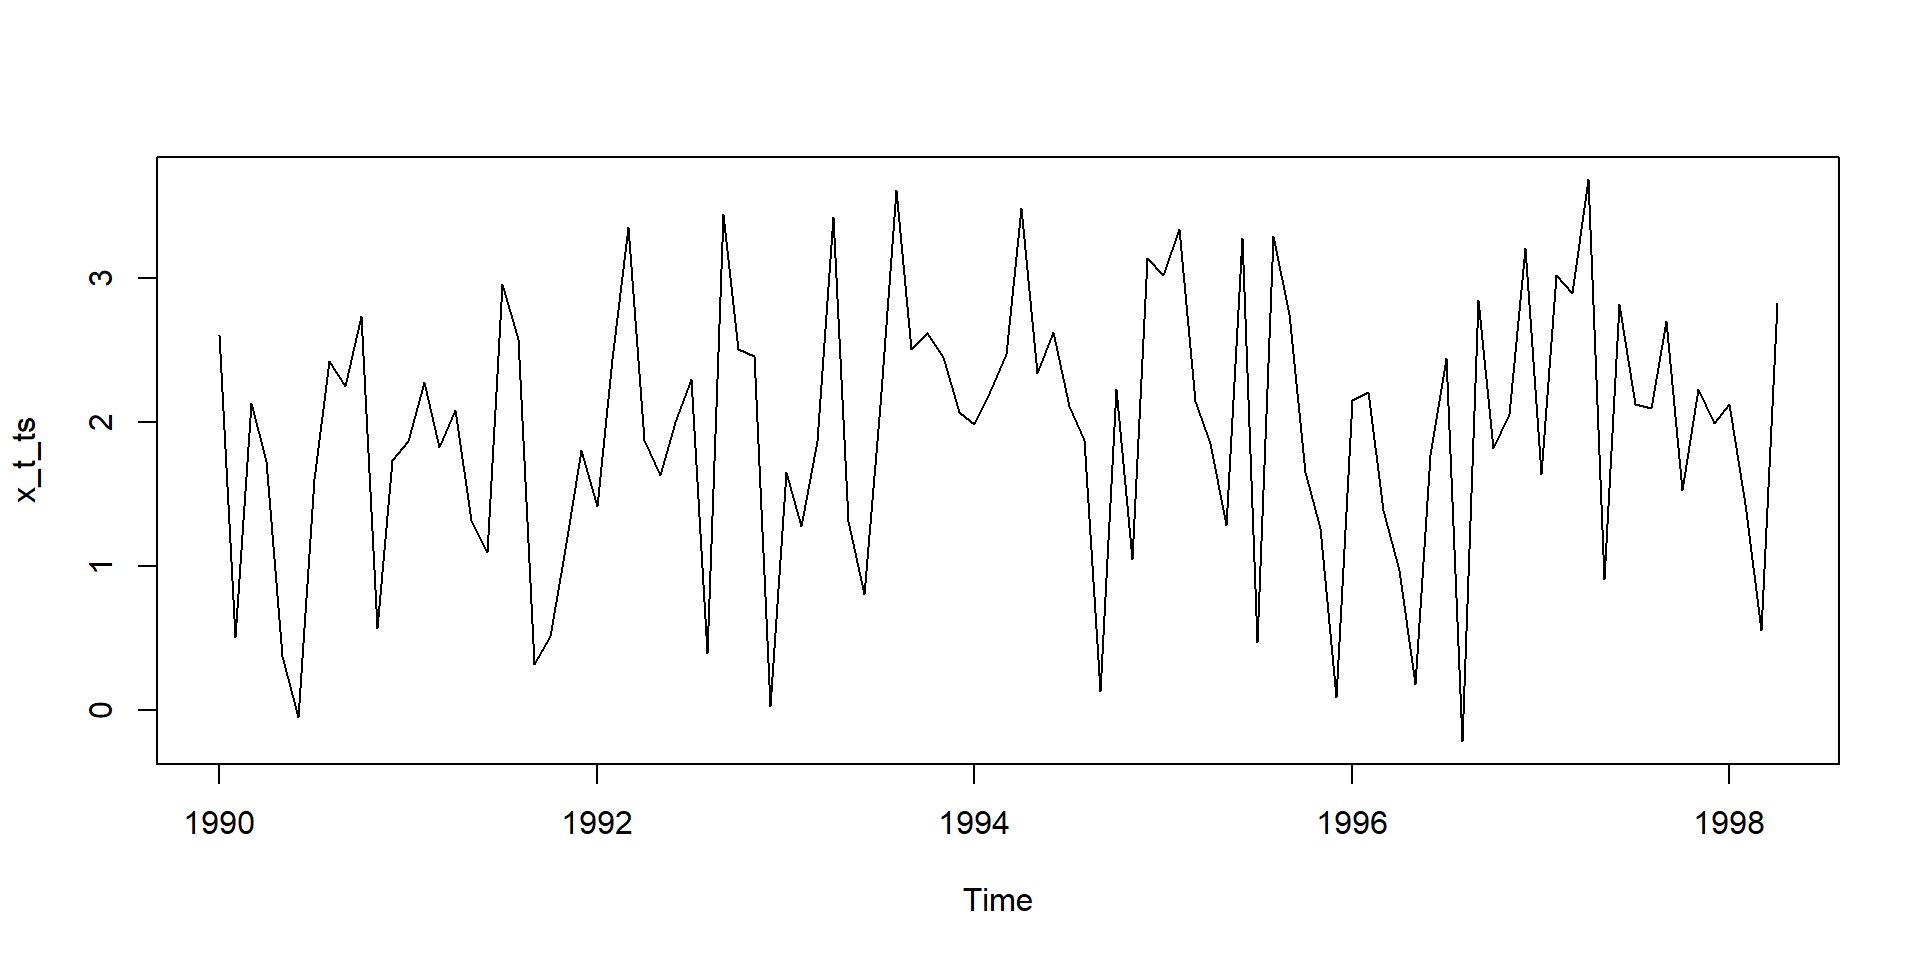
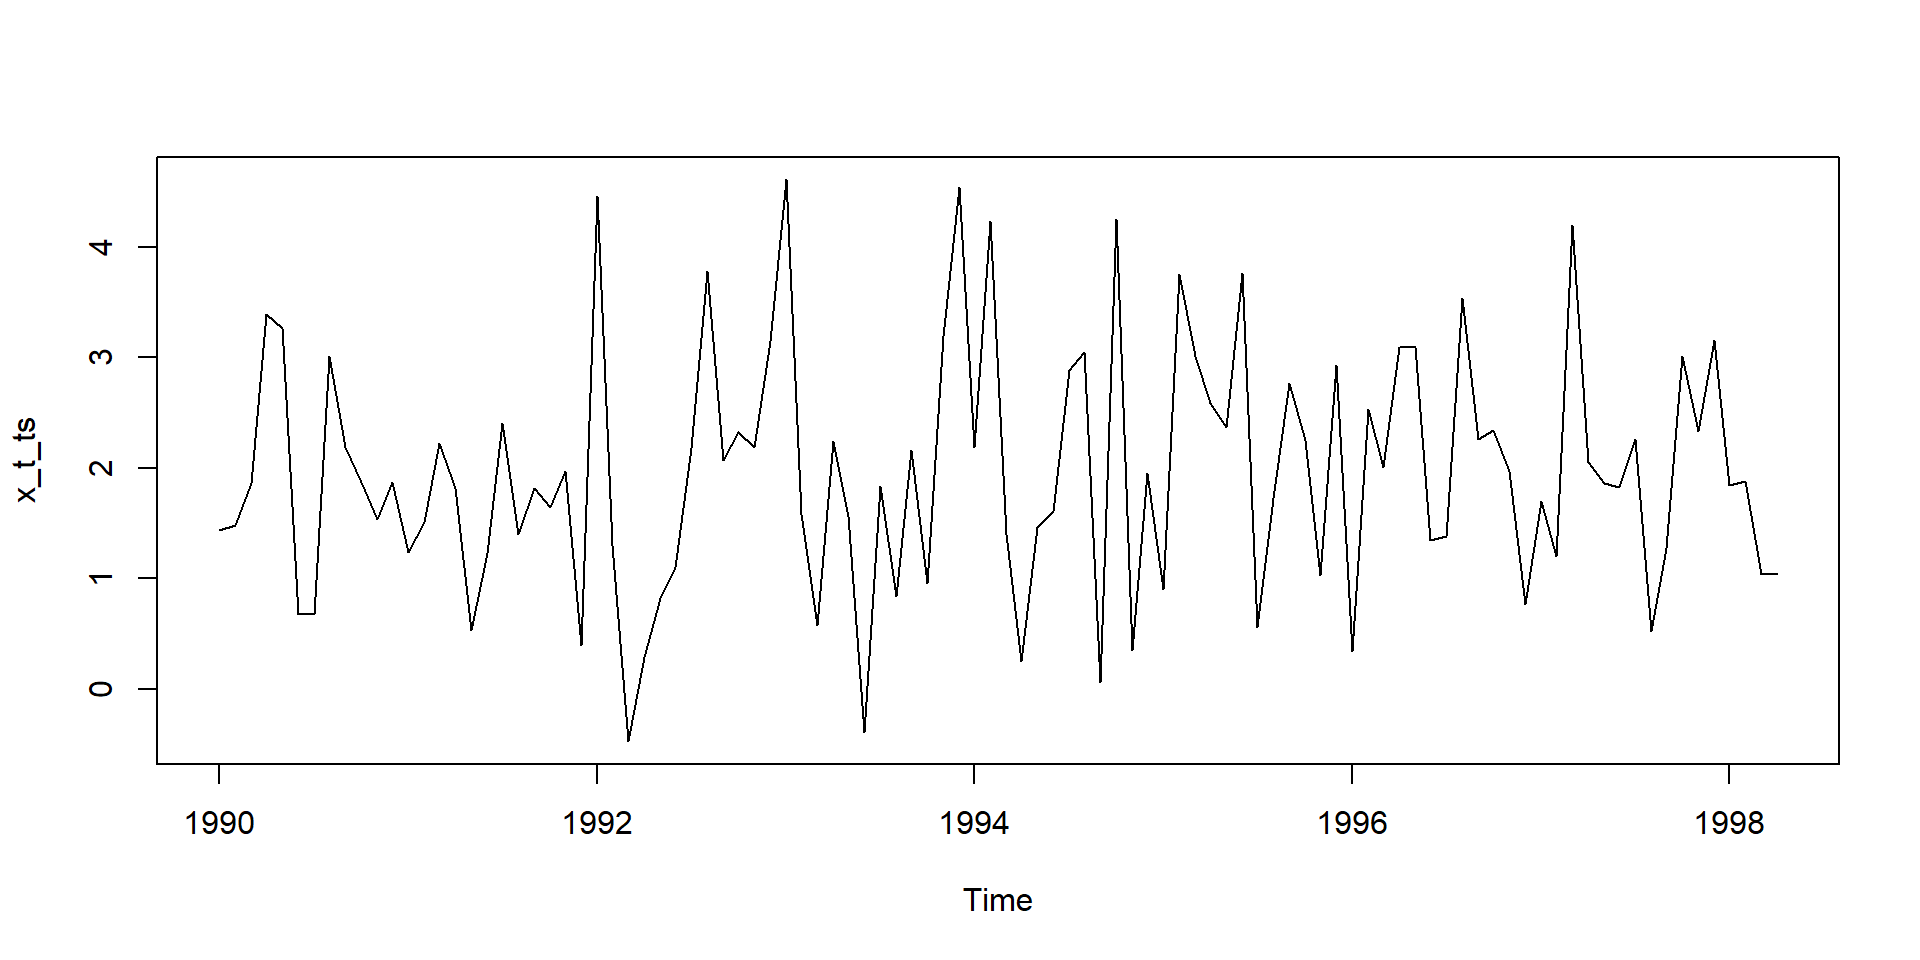
added some notes

diff --git a/index.html b/index.html
@@ -536,24 +536,24 @@
 </details>
 <div class="cell-output-stdout">
 <pre><code>             Jan         Feb         Mar         Apr         May         Jun
-1990  2.61054301  0.50836190  2.13727532  1.73053872  0.37953053 -0.04839599
-1991  1.87342749  2.28274341  1.82900076  2.08365622  1.32186421  1.09856584
-1992  1.42142790  2.44391131  3.35684392  1.88177683  1.63586328  2.00217510
-1993  1.65643839  1.27852076  1.86945928  3.42828148  1.31689931  0.80849735
-1994  1.98957060  2.21989553  2.47327293  3.48806628  2.34075715  2.62756813
-1995  3.02684863  3.34285997  2.14854004  1.85420078  1.28608588  3.28168963
-1996  2.15761572  2.21119449  1.39094764  0.97565809  0.18629855  1.77396884
-1997  1.64247393  3.02082267  2.89788924  3.68794975  0.91152784  2.81940946
-1998  2.12687743  1.43439376  0.55947218  2.82648411                        
+1990  1.43843673  1.48488437  1.86575891  3.39151574  3.26392289  0.67404423
+1991  1.24036523  1.51163233  2.22529730  1.81694672  0.52665612  1.23088748
+1992  4.45610598  1.29832468 -0.47557424  0.29081585  0.82288757  1.09825736
+1993  4.60899423  1.58075829  0.57922083  2.24413612  1.56097183 -0.39471021
+1994  2.19125234  4.23572320  1.39723526  0.25103275  1.46749006  1.60597407
+1995  0.90059748  3.75617413  3.00740841  2.58845476  2.36680267  3.75872995
+1996  0.33770797  2.53051762  2.00458464  3.09271674  3.08964370  1.34343612
+1997  1.69463026  1.20424776  4.19515873  2.05497825  1.85867529  1.82311424
+1998  1.84685085  1.87940383  1.03557173  1.04499688                        
              Jul         Aug         Sep         Oct         Nov         Dec
-1990  1.60941494  2.42821529  2.25662110  2.73911579  0.57519269  1.74172516
-1991  2.95913583  2.58183924  0.32186446  0.51573770  1.12484311  1.81061883
-1992  2.29910841  0.39604647  3.44843776  2.50876076  2.46009033  0.02865232
-1993  2.12452867  3.61515032  2.50866771  2.61935859  2.45172437  2.07310925
-1994  2.11186023  1.87500336  0.13777172  2.23147595  1.05520922  3.14442173
-1995  0.47675968  3.29653936  2.75163170  1.65578259  1.26673411  0.09548863
-1996  2.44581437 -0.21312324  2.84877926  1.82135609  2.05899280  3.21040493
-1997  2.12583623  2.10308964  2.70408207  1.52932961  2.22935003  1.99489605
+1990  0.67732884  3.01311671  2.18934993  1.87356038  1.53347100  1.86778507
+1991  2.40700543  1.40230472  1.82018180  1.64033959  1.97038181  0.39476569
+1992  2.17886477  3.78319026  2.07338146  2.31888448  2.18494986  3.14252109
+1993  1.83329606  0.84112734  2.16149479  0.95719310  3.19184814  4.54022618
+1994  2.88768793  3.04244189  0.06017585  4.24706875  0.35226040  1.95292728
+1995  0.55499598  1.72638034  2.76390322  2.24859160  1.03187930  2.92506429
+1996  1.37957284  3.53896489  2.25876505  2.34222765  1.96718255  0.76630450
+1997  2.26253906  0.51870401  1.27093117  3.01136504  2.33238220  3.15492681
 1998                                                                        </code></pre>
 </div>
 </div>
@@ -584,106 +584,106 @@
 </details>
 <div class="cell-output-stdout">
 <pre><code>                [,1]
-Jan 1990  2.61054301
-Feb 1990  0.50836190
-Mar 1990  2.13727532
-Apr 1990  1.73053872
-May 1990  0.37953053
-Jun 1990 -0.04839599
-Jul 1990  1.60941494
-Aug 1990  2.42821529
-Sep 1990  2.25662110
-Oct 1990  2.73911579
-Nov 1990  0.57519269
-Dec 1990  1.74172516
-Jan 1991  1.87342749
-Feb 1991  2.28274341
-Mar 1991  1.82900076
-Apr 1991  2.08365622
-May 1991  1.32186421
-Jun 1991  1.09856584
-Jul 1991  2.95913583
-Aug 1991  2.58183924
-Sep 1991  0.32186446
-Oct 1991  0.51573770
-Nov 1991  1.12484311
-Dec 1991  1.81061883
-Jan 1992  1.42142790
-Feb 1992  2.44391131
-Mar 1992  3.35684392
-Apr 1992  1.88177683
-May 1992  1.63586328
-Jun 1992  2.00217510
-Jul 1992  2.29910841
-Aug 1992  0.39604647
-Sep 1992  3.44843776
-Oct 1992  2.50876076
-Nov 1992  2.46009033
-Dec 1992  0.02865232
-Jan 1993  1.65643839
-Feb 1993  1.27852076
-Mar 1993  1.86945928
-Apr 1993  3.42828148
-May 1993  1.31689931
-Jun 1993  0.80849735
-Jul 1993  2.12452867
-Aug 1993  3.61515032
-Sep 1993  2.50866771
-Oct 1993  2.61935859
-Nov 1993  2.45172437
-Dec 1993  2.07310925
-Jan 1994  1.98957060
-Feb 1994  2.21989553
-Mar 1994  2.47327293
-Apr 1994  3.48806628
-May 1994  2.34075715
-Jun 1994  2.62756813
-Jul 1994  2.11186023
-Aug 1994  1.87500336
-Sep 1994  0.13777172
-Oct 1994  2.23147595
-Nov 1994  1.05520922
-Dec 1994  3.14442173
-Jan 1995  3.02684863
-Feb 1995  3.34285997
-Mar 1995  2.14854004
-Apr 1995  1.85420078
-May 1995  1.28608588
-Jun 1995  3.28168963
-Jul 1995  0.47675968
-Aug 1995  3.29653936
-Sep 1995  2.75163170
-Oct 1995  1.65578259
-Nov 1995  1.26673411
-Dec 1995  0.09548863
-Jan 1996  2.15761572
-Feb 1996  2.21119449
-Mar 1996  1.39094764
-Apr 1996  0.97565809
-May 1996  0.18629855
-Jun 1996  1.77396884
-Jul 1996  2.44581437
-Aug 1996 -0.21312324
-Sep 1996  2.84877926
-Oct 1996  1.82135609
-Nov 1996  2.05899280
-Dec 1996  3.21040493
-Jan 1997  1.64247393
-Feb 1997  3.02082267
-Mar 1997  2.89788924
-Apr 1997  3.68794975
-May 1997  0.91152784
-Jun 1997  2.81940946
-Jul 1997  2.12583623
-Aug 1997  2.10308964
-Sep 1997  2.70408207
-Oct 1997  1.52932961
-Nov 1997  2.22935003
-Dec 1997  1.99489605
-Jan 1998  2.12687743
-Feb 1998  1.43439376
-Mar 1998  0.55947218
-Apr 1998  2.82648411</code></pre>
+Jan 1990  1.43843673
+Feb 1990  1.48488437
+Mar 1990  1.86575891
+Apr 1990  3.39151574
+May 1990  3.26392289
+Jun 1990  0.67404423
+Jul 1990  0.67732884
+Aug 1990  3.01311671
+Sep 1990  2.18934993
+Oct 1990  1.87356038
+Nov 1990  1.53347100
+Dec 1990  1.86778507
+Jan 1991  1.24036523
+Feb 1991  1.51163233
+Mar 1991  2.22529730
+Apr 1991  1.81694672
+May 1991  0.52665612
+Jun 1991  1.23088748
+Jul 1991  2.40700543
+Aug 1991  1.40230472
+Sep 1991  1.82018180
+Oct 1991  1.64033959
+Nov 1991  1.97038181
+Dec 1991  0.39476569
+Jan 1992  4.45610598
+Feb 1992  1.29832468
+Mar 1992 -0.47557424
+Apr 1992  0.29081585
+May 1992  0.82288757
+Jun 1992  1.09825736
+Jul 1992  2.17886477
+Aug 1992  3.78319026
+Sep 1992  2.07338146
+Oct 1992  2.31888448
+Nov 1992  2.18494986
+Dec 1992  3.14252109
+Jan 1993  4.60899423
+Feb 1993  1.58075829
+Mar 1993  0.57922083
+Apr 1993  2.24413612
+May 1993  1.56097183
+Jun 1993 -0.39471021
+Jul 1993  1.83329606
+Aug 1993  0.84112734
+Sep 1993  2.16149479
+Oct 1993  0.95719310
+Nov 1993  3.19184814
+Dec 1993  4.54022618
+Jan 1994  2.19125234
+Feb 1994  4.23572320
+Mar 1994  1.39723526
+Apr 1994  0.25103275
+May 1994  1.46749006
+Jun 1994  1.60597407
+Jul 1994  2.88768793
+Aug 1994  3.04244189
+Sep 1994  0.06017585
+Oct 1994  4.24706875
+Nov 1994  0.35226040
+Dec 1994  1.95292728
+Jan 1995  0.90059748
+Feb 1995  3.75617413
+Mar 1995  3.00740841
+Apr 1995  2.58845476
+May 1995  2.36680267
+Jun 1995  3.75872995
+Jul 1995  0.55499598
+Aug 1995  1.72638034
+Sep 1995  2.76390322
+Oct 1995  2.24859160
+Nov 1995  1.03187930
+Dec 1995  2.92506429
+Jan 1996  0.33770797
+Feb 1996  2.53051762
+Mar 1996  2.00458464
+Apr 1996  3.09271674
+May 1996  3.08964370
+Jun 1996  1.34343612
+Jul 1996  1.37957284
+Aug 1996  3.53896489
+Sep 1996  2.25876505
+Oct 1996  2.34222765
+Nov 1996  1.96718255
+Dec 1996  0.76630450
+Jan 1997  1.69463026
+Feb 1997  1.20424776
+Mar 1997  4.19515873
+Apr 1997  2.05497825
+May 1997  1.85867529
+Jun 1997  1.82311424
+Jul 1997  2.26253906
+Aug 1997  0.51870401
+Sep 1997  1.27093117
+Oct 1997  3.01136504
+Nov 1997  2.33238220
+Dec 1997  3.15492681
+Jan 1998  1.84685085
+Feb 1998  1.87940383
+Mar 1998  1.03557173
+Apr 1998  1.04499688</code></pre>
 </div>
 </div>
 <div class="cell">
@@ -1026,6 +1026,9 @@ y_{t}=a+b_{1} y_{t-1}+b_{2} y_{t-2}+\ldots .+b_{p} y_{t}+\varepsilon_{t}
 </div>
 </div>
 </div>
+<aside class="notes">
+<p>The <span class="math inline">\(p^{\text {th }}\)</span> partial autcorrelation is the <span class="math inline">\(p^{\text {th }}\)</span> coefficient of linear regression of <span class="math inline">\(y_{+}\)</span>on its lags up to <span class="math inline">\(p\)</span> :</p>
+</aside>
 </section>
 <section id="formal-identification-cont.-1" class="slide level3">
 <h3>Formal identification (Cont.)</h3>
